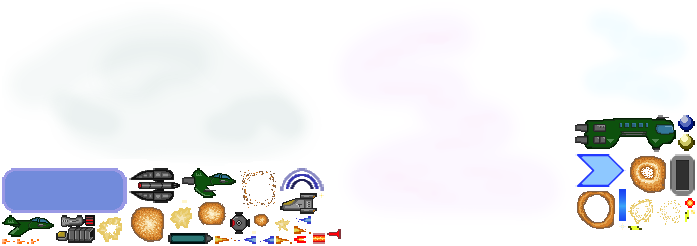
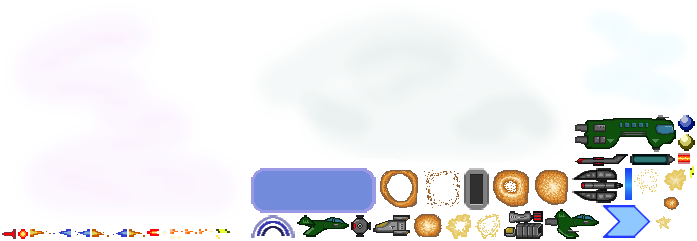
Adding dart enemy and credits help page

Changed region(s): [[0.0, 0.4647, 1.0, 1.0]]

diff --git a/Vrax/EntityFactory.cs b/Vrax/EntityFactory.cs
@@ -272,6 +272,42 @@ namespace LudumDare40.Vrax
             return result;
         }
 
+        public Entity CreateUpwardEnemyShot()
+        {
+            var result = new Entity()
+            {
+                Health = 1,
+                Rectangle = new Rect(0, 0, 5, 10),
+                IgnoreCollision = true
+            };
+            result.AddComponent(new CollisionDamageComponent(0) { DestroyOnCollide = true });
+            result.AddComponent(new RenderComponent(EnemyShot) { Rotation = -90 });
+            result.AddComponent(new ProjectileComponent()
+            {
+                Speed = 300
+            });
+
+            return result;
+        }
+
+        public Entity CreateDownardEnemyShot()
+        {
+            var result = new Entity()
+            {
+                Health = 1,
+                Rectangle = new Rect(0, 0, 5, 10),
+                IgnoreCollision = true
+            };
+            result.AddComponent(new CollisionDamageComponent(0) { DestroyOnCollide = true });
+            result.AddComponent(new RenderComponent(EnemyShot) { Rotation = 90 });
+            result.AddComponent(new ProjectileComponent()
+            {
+                Speed = 300
+            });
+
+            return result;
+        }
+
         public Entity CreateOrbShot()
         {
             var result = new Entity()
@@ -455,6 +491,54 @@ namespace LudumDare40.Vrax
             {
                 ProjectileDirection = new Distance(-1, 0),
                 FireOffset = new Distance(2, 12),
+                TryFire = true
+            });
+
+            result.Destroyed += SpawnExplosionOnDeath;
+
+            return result;
+        }
+
+        public Entity CreateDartEnemy()
+        {
+            var result = new Entity()
+            {
+                Health = 1,
+                Rectangle = new Rect(0, 0, 37, 26),
+                Team = Team.Enemy
+            };
+
+            var weapon = new WeaponConfig()
+            {
+                Damage = 1,
+                ProjectileCreator = CreateUpwardEnemyShot,
+                ShootSpeed = 0.8
+            };
+
+            result.AddComponent(new RenderComponent(MainAtlas.GetFrame("dart.png")));
+            result.AddComponent(new MovementComponent(300)
+            {
+                MoveLeft = true
+            });
+            result.AddComponent(new CollisionDamageComponent(1) { DestroyOnCollide = true });
+            // Top gun
+            result.AddComponent(new WeaponComponent(weapon)
+            {
+                ProjectileDirection = new Distance(0, -1),
+                FireOffset = new Distance(21, 2),
+                TryFire = true
+            });
+
+            // Bottom gun
+            result.AddComponent(new WeaponComponent(new WeaponConfig()
+            {
+                Damage = 1,
+                ProjectileCreator = CreateDownardEnemyShot,
+                ShootSpeed = 0.8,
+            })
+            {
+                ProjectileDirection = new Distance(0, 1),
+                FireOffset = new Distance(21, 10),
                 TryFire = true
             });
 

diff --git a/Vrax/Vrax.cs b/Vrax/Vrax.cs
@@ -19,6 +19,7 @@ namespace LudumDare40.Vrax
 
         public static IGameAccess Game { get; private set; }
         public static IWorldContainer World { get; private set; }
+        public static bool EnableDebug { get; set; }
 
         static void Main(string[] args)
         {
@@ -107,6 +108,9 @@ namespace LudumDare40.Vrax
             var action = Input.Register(Controls.DisableMusic, Keycode.M);
             action.OnReleased += OnDisableMusic;
 
+            action = Input.Register(Controls.Debug, Keycode.F1);
+            action.OnReleased += () => EnableDebug = !EnableDebug;
+
             State = new MenuState(Factory);
         }
 
@@ -148,7 +152,8 @@ namespace LudumDare40.Vrax
             State?.Draw(g);
 
             // DEBUG
-            g.DrawText(DefaultFont, $"FPS: {FPS}", new Point(0, Screen.Height - DefaultFont.TextHeight));
+            if (EnableDebug)
+                g.DrawText(DefaultFont, $"FPS: {FPS}", new Point(0, Screen.Height - DefaultFont.TextHeight));
         }
     }
 
@@ -162,6 +167,8 @@ namespace LudumDare40.Vrax
         Fire,
         DisableMusic,
         TransformSmaller,
-        TransformBigger
+        TransformBigger,
+
+        Debug
     }
 }

diff --git a/Vrax/States/HelpState.cs b/Vrax/States/HelpState.cs
@@ -48,6 +48,7 @@ namespace LudumDare40.Vrax.States
             CreateControlsPage();
             CreateUIHelpPage();
             CreateTransformPage();
+            CreateAboutPage();
 
             Display.Add(Pages[0]);
         }
@@ -234,6 +235,20 @@ namespace LudumDare40.Vrax.States
                 Parent = page,
                 Position = new Point(x, y),
                 Anchor = new Distance(0.5f, 0)
+            };
+        }
+
+        private void CreateAboutPage()
+        {
+            var page = new DisplayContainer();
+            Pages.Add(page);
+
+            var tf = new Textfield(HelpFont, "This game was made completely in 48 hours by Mark Troyer on Dec 1-3, 2017 for the Ludum Dare 40 Compo. I had fun making it and I hope you enjoy playing it!")
+            {
+                Parent = page,
+                Position = Screen.Half,
+                Anchor = Distance.Center,
+                MaxWidth = (int)(Screen.Width * 0.8f)
             };
         }
 

diff --git a/Vrax/WaveSpawner.cs b/Vrax/WaveSpawner.cs
@@ -32,7 +32,7 @@ namespace LudumDare40.Vrax
                     SpawnCount = 1,
                     Table = new WeightedTable<SpawnChance>(e => e.Weight, new[]
                     {
-                        new SpawnChance(1, factory.CreateUFOEnemy)
+                        new SpawnChance(1, factory.CreateDartEnemy)
                     })
                 },
                 new Wave()
